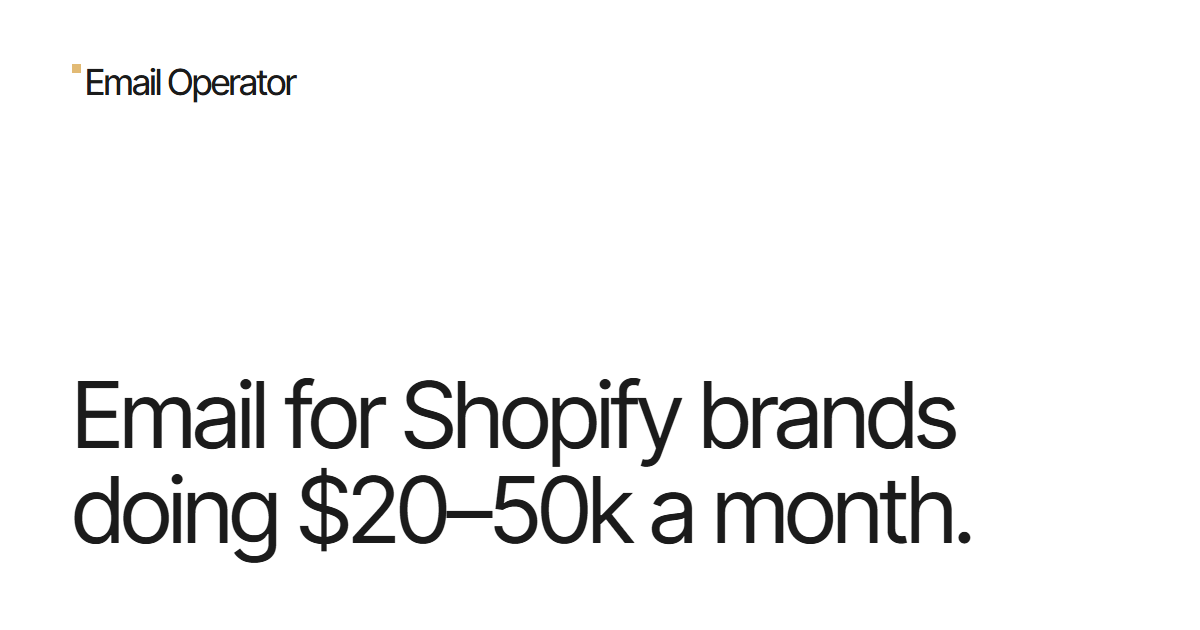
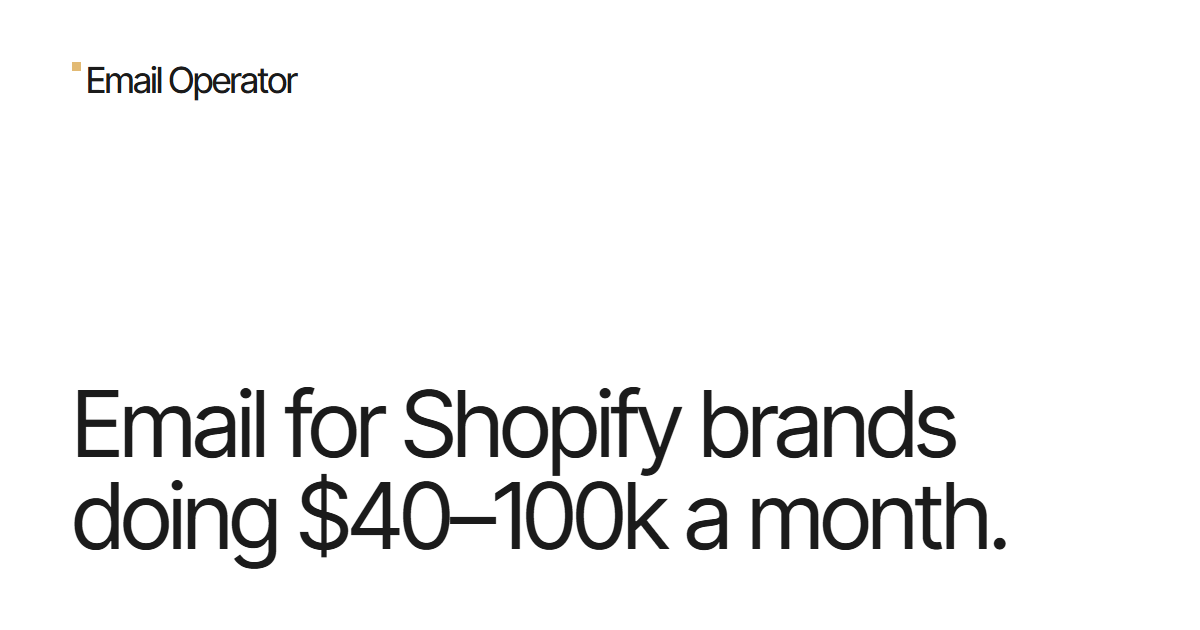
Move target range from $20-50k to $40-100k a month
- Hero, meta, share tags, structured data, results intro, footer
- Why section maths ($6,000 / $15,000; $60k example = $9,000)
- FAQ size answer: agency retainer line, $40k lower bound, $100k upper bound
- Store revenue slider now $10k to $150k+; calculator under-$40k note
- New share image with the new range
- Hero title given more room so it stays on three lines

Changed region(s): [[0.0617, 0.6032, 0.8325, 0.9048], [0.0617, 0.0905, 0.2467, 0.1508]]

diff --git a/public/index.html b/public/index.html
@@ -3,8 +3,8 @@
 <head>
   <meta charset="UTF-8">
   <meta name="viewport" content="width=device-width, initial-scale=1.0">
-  <title>Email marketing for Shopify brands doing $20–50k a month | Email Operator</title>
-  <meta name="description" content="Flows, campaigns and deliverability for Shopify stores doing $20–50k a month. Written and built by one person. Start with a free email check.">
+  <title>Email marketing for Shopify brands doing $40–100k a month | Email Operator</title>
+  <meta name="description" content="Flows, campaigns and deliverability for Shopify stores doing $40–100k a month. Written and built by one person. Start with a free email check.">
   <meta name="robots" content="index, follow">
   <link rel="canonical" href="https://email-operator.com/">
   <link rel="icon" type="image/svg+xml" href="assets/favicon.svg">
@@ -15,8 +15,8 @@
   <meta property="og:type"        content="website">
   <meta property="og:url"         content="https://email-operator.com/">
   <meta property="og:site_name"   content="Email Operator">
-  <meta property="og:title"       content="Email marketing for Shopify brands doing $20–50k a month | Email Operator">
-  <meta property="og:description" content="Flows, campaigns and deliverability for Shopify stores doing $20–50k a month. Written and built by one person. Start with a free email check.">
+  <meta property="og:title"       content="Email marketing for Shopify brands doing $40–100k a month | Email Operator">
+  <meta property="og:description" content="Flows, campaigns and deliverability for Shopify stores doing $40–100k a month. Written and built by one person. Start with a free email check.">
   <meta property="og:image"       content="https://email-operator.com/assets/og-image.png">
   <meta property="og:image:width"  content="1200">
   <meta property="og:image:height" content="630">
@@ -24,8 +24,8 @@
 
   <!-- Twitter / X -->
   <meta name="twitter:card"        content="summary_large_image">
-  <meta name="twitter:title"       content="Email marketing for Shopify brands doing $20–50k a month | Email Operator">
-  <meta name="twitter:description" content="Flows, campaigns and deliverability for Shopify stores doing $20–50k a month. Written and built by one person. Start with a free email check.">
+  <meta name="twitter:title"       content="Email marketing for Shopify brands doing $40–100k a month | Email Operator">
+  <meta name="twitter:description" content="Flows, campaigns and deliverability for Shopify stores doing $40–100k a month. Written and built by one person. Start with a free email check.">
   <meta name="twitter:image"       content="https://email-operator.com/assets/og-image.png">
 
   <script type="application/ld+json">
@@ -36,7 +36,7 @@
     "url": "https://email-operator.com/",
     "image": "https://email-operator.com/assets/og-image.png",
     "email": "hello@augustinasv.com",
-    "description": "Flows, campaigns and deliverability for Shopify stores doing $20–50k a month. Written and built by one person. Start with a free email check.",
+    "description": "Flows, campaigns and deliverability for Shopify stores doing $40–100k a month. Written and built by one person. Start with a free email check.",
     "founder": { "@type": "Person", "name": "Augustinas Venclovas" }
   }
   </script>
@@ -161,7 +161,7 @@
     .hero-slide { position: absolute; inset: 0; width: 100%; height: 100%; object-fit: cover; opacity: 0; transition: opacity .6s ease-in-out; }
     .hero-slide.active { opacity: 1; }
     .hero-content { display: flex; flex-direction: column; align-items: center; flex: 1; min-width: 0; }
-    .hero-title { max-width: 560px; font-size: 75px; line-height: 1.01; letter-spacing: -2.34px; font-weight: 400; }
+    .hero-title { max-width: 640px; font-size: 75px; line-height: 1.01; letter-spacing: -2.34px; font-weight: 400; }
     .hero-sub { max-width: 520px; margin-top: 24px; font-size: 20px; line-height: 1.45; letter-spacing: -.4px; color: var(--gray-text); }
     .hero-cta { width: 100%; max-width: 373px; margin-top: 27px; }
     .hero-features { display: flex; align-items: center; justify-content: center; flex-wrap: wrap; gap: 10px 20px; margin-top: 28px; }
@@ -180,6 +180,9 @@
       .hero-features { gap: 8px 16px; margin-top: 22px; }
     }
     @media (max-width: 639px) { .hero-cta { max-width: none; } }
+    /* The longer range ($40–100k) needs a little more room to stay on three lines */
+    @media (min-width: 1190px) and (max-width: 1340px) { .hero-title { font-size: 64px; letter-spacing: -2px; } }
+    @media (max-width: 430px) { .hero-title { font-size: 38px; letter-spacing: -1.6px; } }
 
     /* ================================================================ LOGO CAROUSEL */
     .logo-carousel { position: relative; width: 100%; height: 72px; margin-top: 80px; overflow: hidden; }
@@ -625,7 +628,7 @@
       <img src="assets/wins/vshred.webp" width="1000" height="1000" alt="" class="hero-slide" loading="lazy">
     </div>
     <div class="hero-content">
-      <h1 class="hero-title" id="hero-title">Email for Shopify brands doing <span class="nw">$20–50k</span> a&nbsp;month.</h1>
+      <h1 class="hero-title" id="hero-title">Email for Shopify brands doing <span class="nw">$40–100k</span> a&nbsp;month.</h1>
       <p class="hero-sub">Email should bring in around 25% of your revenue. At most stores your size, it's closer to 10%. I write, build and send the emails that close that gap.</p>
       <a href="#check" class="btn btn-dark hero-cta">
         <span class="avatar"><img src="assets/face-zoom.webp" width="160" height="160" alt=""><span class="pulse" aria-hidden="true"></span></span>
@@ -687,8 +690,8 @@
         </div>
       </div>
       <div class="card-content">
-        <h3 class="card-title">On a $30k month, that gap is $4,500.</h3>
-        <p class="card-text">At $20k a month it's $3,000. At $50k it's $7,500. Every month, from people who already found you.</p>
+        <h3 class="card-title">On a $60k month, that gap is $9,000.</h3>
+        <p class="card-text">At $40k a month it's $6,000. At $100k it's $15,000. Every month, from people who already found you.</p>
         <p class="card-note"><a href="#check">Check yours with the sliders</a>, or by hand: email revenue in Klaviyo for the last 30 days, divided by your Shopify sales for the same 30 days.</p>
       </div>
     </article>
@@ -797,7 +800,7 @@
   <span class="alias" id="case_studies" aria-hidden="true"></span>
   <div class="projects-header">
     <h2 class="headline" id="p-title">Results. <span class="g b">Bigger brands than yours. The same work.</span></h2>
-    <p class="projects-lead">I learned this on larger accounts. The flows and campaigns below are the same ones I build for stores doing $20–50k a month.</p>
+    <p class="projects-lead">I learned this on larger accounts. The flows and campaigns below are the same ones I build for stores doing $40–100k a month.</p>
   </div>
 
   <div class="projects-grid">
@@ -959,7 +962,7 @@
     <div class="faq-items">
       <details open>
         <summary>Is my store the right size?<svg width="16" height="20" viewBox="0 0 16 20" fill="none" stroke="currentColor" stroke-width="1.4" stroke-linecap="round" stroke-linejoin="round" aria-hidden="true"><path d="M8 1v18M1 12l7 7 7-7"/></svg></summary>
-        <div class="ans">If you're on Shopify and doing roughly $20–50k a month, yes. Agencies are built for brands doing $1M or more a year; this is built for yours. Below $20k the list is usually too small for a monthly service to pay for itself, and I'll tell you if so. Above $50k, get in touch anyway.</div>
+        <div class="ans">If you're on Shopify and doing roughly $40–100k a month, yes. Agency retainers start around $3,000 a month; this is built for stores where that fee doesn't add up. Below $40k a monthly service usually can't pay for itself, and I'll tell you if so. Above $100k, get in touch anyway.</div>
       </details>
       <details>
         <summary>What is the free email check?<svg width="16" height="20" viewBox="0 0 16 20" fill="none" stroke="currentColor" stroke-width="1.4" stroke-linecap="round" stroke-linejoin="round" aria-hidden="true"><path d="M8 1v18M1 12l7 7 7-7"/></svg></summary>
@@ -1021,7 +1024,7 @@
         <div class="field slider-field">
           <div class="slider-head"><label for="s-store">Monthly store revenue</label></div>
           <select id="s-store" name="store_revenue">
-            <option selected>Don't know</option><option>$10k</option><option>$15k</option><option>$20k</option><option>$25k</option><option>$30k</option><option>$35k</option><option>$40k</option><option>$45k</option><option>$50k</option><option>$60k</option><option>$75k</option><option>$100k+</option>
+            <option selected>Don't know</option><option>$10k</option><option>$15k</option><option>$20k</option><option>$25k</option><option>$30k</option><option>$40k</option><option>$50k</option><option>$60k</option><option>$75k</option><option>$100k</option><option>$125k</option><option>$150k+</option>
           </select>
         </div>
         <div class="field slider-field">
@@ -1097,7 +1100,7 @@
   </div>
   <div class="footer-content">
     <span class="footer-avatar"><img src="assets/face-zoom.webp" width="160" height="160" alt="" loading="lazy"><span class="pulse" aria-hidden="true"></span></span>
-    <p class="footer-tagline">Email for Shopify brands doing <span class="nw">$20–50k</span> a&nbsp;month. <span class="g">Written and built by one person.</span></p>
+    <p class="footer-tagline">Email for Shopify brands doing <span class="nw">$40–100k</span> a&nbsp;month. <span class="g">Written and built by one person.</span></p>
     <div class="footer-contacts">
       <a href="mailto:hello@augustinasv.com">hello@augustinasv.com</a>
       <a href="#check">free email check <svg width="40" height="40" viewBox="0 0 24 24" fill="none" stroke="currentColor" stroke-width="1.6" stroke-linecap="round" aria-hidden="true"><path d="M6 18 18 6M8 6h10v10"/></svg></a>
@@ -1229,9 +1232,9 @@ const estimateApi = (function () {
   const elLarge = document.getElementById('est-large');
   const elCap = document.getElementById('est-cap');
   const elFoot = document.getElementById('est-foot');
-  const SMALL_STORE = "Under about $20k a month, a monthly service usually doesn't pay for itself. I'll tell you if that's the case.";
+  const SMALL_STORE = "Under about $40k a month, a monthly service usually can't pay for itself. I'll tell you if that's the case.";
   const hidden = document.getElementById('f-estimate');
-  const STORE = [null, 10000, 15000, 20000, 25000, 30000, 35000, 40000, 45000, 50000, 60000, 75000, 100000];
+  const STORE = [null, 10000, 15000, 20000, 25000, 30000, 40000, 50000, 60000, 75000, 100000, 125000, 150000];
   const EMAIL = [null, 0, 500, 1000, 1500, 2000, 2500, 3000, 4000, 5000, 6000, 8000, 10000, 12500, 15000, 20000];
   const store = document.getElementById('s-store');
   const email = document.getElementById('s-email');
@@ -1283,7 +1286,7 @@ const estimateApi = (function () {
   function render(animate) {
     const [a, b, c] = compute();
     const si = store.selectedIndex;
-    const d = si > 0 && STORE[si] < 20000 ? SMALL_STORE : '';   // below the size the service is built for
+    const d = si > 0 && STORE[si] < 40000 ? SMALL_STORE : '';   // below the size the service is built for
     const text = [a, b, c, d].filter(Boolean).join(' ');
     if (hidden.value === text) return;
     elSmall.textContent = a; elLarge.textContent = b; elCap.textContent = c; elFoot.textContent = d;
